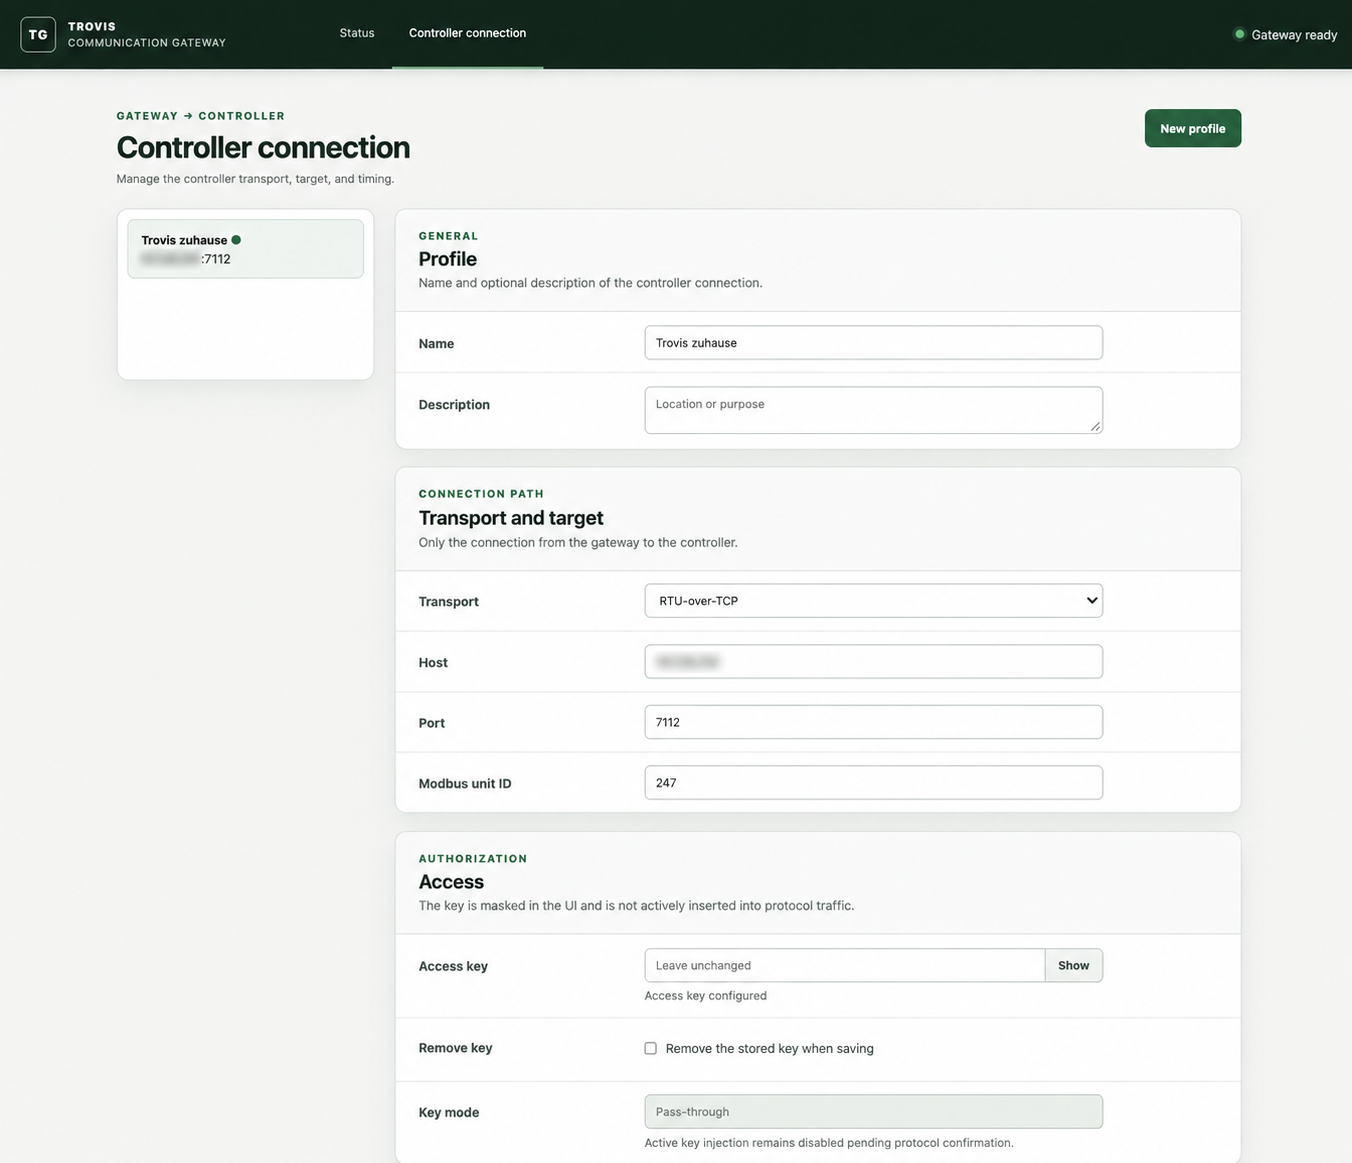
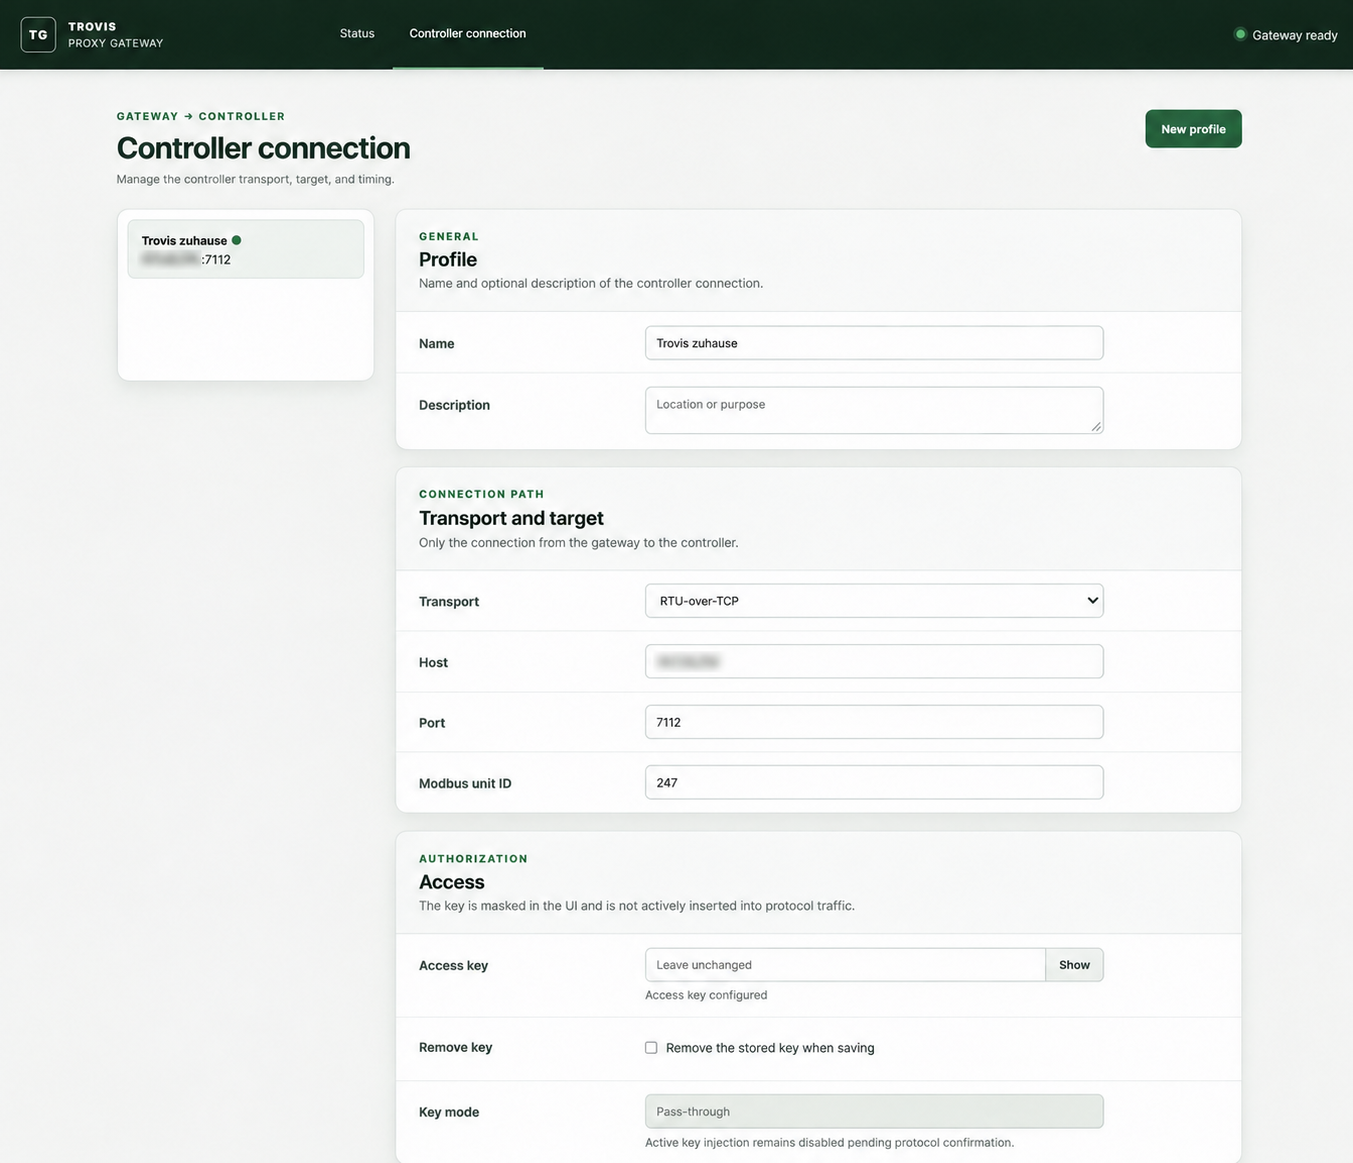
Rename product to TROVIS Proxy Gateway

diff --git a/src/trovis_gateway/admin/static/index.html b/src/trovis_gateway/admin/static/index.html
@@ -4,14 +4,14 @@
   <meta charset="utf-8">
   <meta name="viewport" content="width=device-width, initial-scale=1">
   <meta name="color-scheme" content="light">
-  <title>TROVIS Communication Gateway</title>
+  <title>TROVIS Proxy Gateway</title>
   <link rel="stylesheet" href="/styles.css">
 </head>
 <body>
   <header class="topbar">
     <a class="brand" href="#status" aria-label="Gateway home">
       <span class="brand-mark" aria-hidden="true">TG</span>
-      <span><strong>TROVIS</strong><small>Communication Gateway</small></span>
+      <span><strong>TROVIS</strong><small>Proxy Gateway</small></span>
     </a>
     <nav aria-label="Main navigation">
       <button class="nav-button active" data-view="status">Status</button>

diff --git a/src/trovis_gateway/cli.py b/src/trovis_gateway/cli.py
@@ -14,7 +14,7 @@ from .config import InfrastructureSettings
 
 def parser() -> argparse.ArgumentParser:
     defaults = InfrastructureSettings.from_environment()
-    command = argparse.ArgumentParser(description="Generic TROVIS Communication Gateway")
+    command = argparse.ArgumentParser(description="Generic TROVIS Proxy Gateway")
     command.add_argument("--listen-host", default=defaults.listen_host)
     command.add_argument("--listen-port", type=int, default=defaults.listen_port)
     command.add_argument("--admin-host", default=defaults.admin_host)

diff --git a/tests/gateway/test_admin.py b/tests/gateway/test_admin.py
@@ -78,6 +78,8 @@ class AdminTests(unittest.IsolatedAsyncioTestCase):
     async def test_ui_has_controller_editor_but_no_downstream_editor(self) -> None:
         _, html = await self.fetch("/")
         self.assertIn('<html lang="en">', html)
+        self.assertIn("TROVIS Proxy Gateway", html)
+        self.assertNotIn("TROVIS Communication Gateway", html)
         self.assertIn("Controller connection", html)
         self.assertIn("Design by macsobeck", html)
         self.assertIn("TROVIS-VIEW Listener", html)

diff --git a/src/trovis_gateway/__init__.py b/src/trovis_gateway/__init__.py
@@ -1,3 +1,3 @@
-"""Device- and firmware-agnostic TROVIS Communication Gateway."""
+"""Device- and firmware-agnostic TROVIS Proxy Gateway."""
 
 __version__ = "0.1.0"

diff --git a/AGENTS.md b/AGENTS.md
@@ -4,7 +4,7 @@
 
 This Python 3.12 repository has two deliberately separate areas:
 
-- `src/trovis_gateway/` is the generic communication gateway: Modbus framing, upstream transports, profile storage, admin API, and static UI.
+- `src/trovis_gateway/` is the generic proxy gateway: Modbus framing, upstream transports, profile storage, admin API, and static UI.
 - `src/trovis_manager/` is the read-only TROVIS 5573-1 FW 3.09 research and validation harness.
 - `tests/gateway/`, `tests/unit/`, and `tests/integration/` mirror those responsibilities.
 - `reference/` contains immutable inputs and derived firmware research; `docs/` records architecture and safety evidence.

diff --git a/README.md b/README.md
@@ -1,6 +1,6 @@
-# TROVIS Communication Gateway
+# TROVIS Proxy Gateway
 
-This repository contains a generic, locally operated communication gateway:
+This repository contains a generic, locally operated proxy gateway:
 
 ```text
 TROVIS-VIEW → Modbus TCP → Gateway → Modbus TCP / RTU-over-TCP / Serial RTU → controller

diff --git a/docs/gateway/installation.md b/docs/gateway/installation.md
@@ -1,6 +1,6 @@
 # Installation Guide
 
-This guide installs the TROVIS Communication Gateway and connects it between
+This guide installs the TROVIS Proxy Gateway and connects it between
 TROVIS-VIEW and a controller.
 
 ```text
